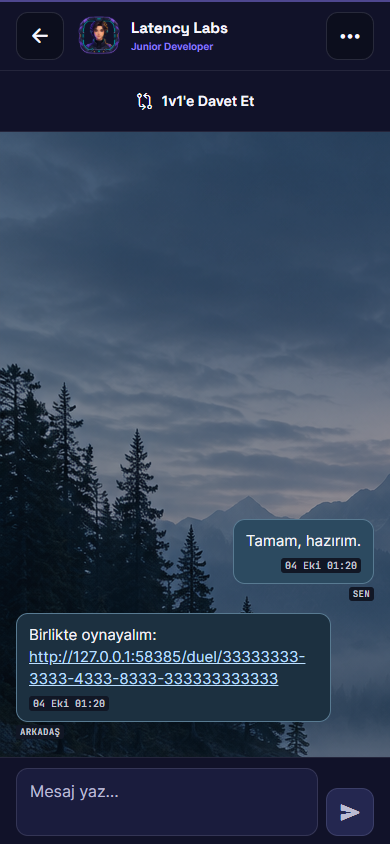
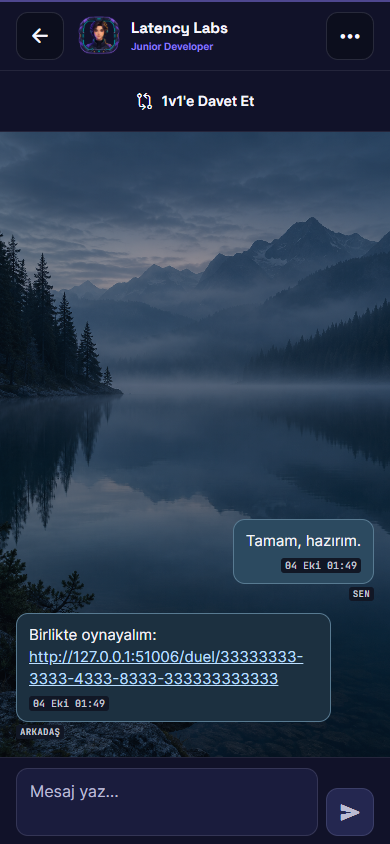
chat fixed.

diff --git a/app/duel/[matchId].tsx b/app/duel/[matchId].tsx
@@ -4,6 +4,7 @@ import { router, useLocalSearchParams } from 'expo-router';
 import React, { useCallback, useEffect, useRef, useState } from 'react';
 import { ActivityIndicator, Alert, Platform, Pressable, Share, Text, View, type TextStyle } from 'react-native';
 import { duelCategoryLabel, DuelButton, DuelNotice, DuelShell, useDuelStyles } from '../../src/components/duels/DuelUI';
+import DuelRoundFeedback from '../../src/components/duels/DuelRoundFeedback';
 import { DuelLobby } from '../../src/components/duels/DuelLobby';
 import { useDuelResource } from '../../src/hooks/useDuelResource';
 import { acceptDuel, cancelDuel, createDuel, declineDuel, forfeitDuel, getDuel, getDuelHeadToHead, submitDuelAnswer } from '../../src/services/duels';
@@ -140,7 +141,7 @@ export default function DuelMatchScreen() {
     if (next) router.replace({ pathname: '/duel/[matchId]', params: { matchId: next.id } });
   };
 
-  return <DuelShell title={match?.status === 'active' && elapsed >= 0 ? opponentName : '1v1 Kapışma'} maxWidth={900} onBack={() => router.replace('/duels')}>
+  return <DuelShell title={match?.status === 'active' && elapsed >= 0 ? opponentName : '1v1 Kapışma'} maxWidth={900} scrollResetKey={`${matchId}:${match?.phase}:${match?.currentRoundIndex}`} onBack={() => router.replace('/duels')}>
     {resource.loading && !match && <View style={styles.surface}><ActivityIndicator color={tokens.colors.primary} /><Text style={styles.body}>Düello yükleniyor…</Text></View>}
     {resource.error && <DuelNotice message={resource.error} onRetry={() => void resource.refresh()} />}
     {match && (match.status === 'pending' || (match.status === 'active' && elapsed < 0)) && <DuelLobby
@@ -160,17 +161,16 @@ export default function DuelMatchScreen() {
       </>}
     </DuelLobby>}
     {match?.status === 'active' && <>
-      {elapsed < 0 ? null : revealing && match.roundResult ? <View style={styles.section} accessibilityLiveRegion="polite">
-        <Text style={styles.eyebrow}>SORU {match.roundResult.roundIndex + 1} / 7 · SONUÇ</Text>
-        <Text style={styles.score}>+{match.roundResult.myPoints} – +{match.roundResult.opponentPoints}</Text>
-        <RoundFeedback round={match.roundResult} />
-        <Text style={styles.strong}>{revealSeconds > 0 ? `${match.roundResult.roundIndex === 6 ? 'Maç sonucu' : 'Sıradaki soru'} ${revealSeconds} saniye sonra` : 'Sunucuyla eşitleniyor…'}</Text>
-      </View> : currentQuestionIsLive && question ? <View style={styles.section}>
+      {elapsed < 0 ? null : revealing && match.roundResult ? <DuelRoundFeedback round={match.roundResult} seconds={revealSeconds} /> : currentQuestionIsLive && question ? <View style={styles.section}>
         <View style={styles.row}>
           <View style={styles.flex}><Text style={styles.eyebrow}>SORU {question.roundIndex + 1} / 7</Text><Text style={styles.body}>{duelCategoryLabel(question.category)}</Text></View>
           <Text accessibilityLabel={`${secondsLeft} saniye kaldı`} style={[styles.timer, secondsLeft <= 5 && styles.warning]}>{secondsLeft}s</Text>
         </View>
         <View style={styles.progressTrack}><View style={[styles.progress, { width: `${Math.min(100, Math.max(0, secondsLeft / 20 * 100))}%` }]} /></View>
+        {match.scoringVersion === 2 && <View accessibilityLiveRegion="polite" style={{ flexDirection: 'row', alignItems: 'center', gap: 8, padding: 12, borderRadius: tokens.radius.sm, backgroundColor: match.opponentAnswered ? tokens.colors.successSoft : tokens.colors.secondarySurface }}>
+          <Ionicons accessible={false} name={match.opponentAnswered ? 'checkmark-circle' : 'time-outline'} size={22} color={match.opponentAnswered ? tokens.colors.success : tokens.colors.textSecondary} />
+          <Text style={[styles.strong, match.opponentAnswered && styles.success]}>{match.opponentAnswered ? 'Rakip cevapladı' : 'Rakip düşünüyor'}</Text>
+        </View>}
         <View style={styles.surface}><Text accessibilityRole="header" style={styles.question}>{question.prompt}</Text></View>
         {question.options.map((option, index) => {
           const isSelected = (submittedOption ?? selectedOption) === index;
@@ -178,7 +178,7 @@ export default function DuelMatchScreen() {
             <Text style={styles.answerLetter}>{String.fromCharCode(65 + index)}</Text><Text style={[styles.body, styles.flex]}>{option}</Text>{isSelected && <Ionicons name="checkmark" size={20} color={tokens.colors.primary} />}
           </Pressable>;
         })}
-        {match.opponentAnswered && <View style={styles.row} accessibilityLiveRegion="polite"><Ionicons name="checkmark-circle" size={20} color={tokens.colors.success} /><Text style={styles.body}>Rakip cevapladı</Text></View>}
+
         {submittedOption != null ? <DuelNotice message={match.scoringVersion === 2 ? 'Yanıtın kilitlendi. İkiniz de yanıtlayınca veya süre dolunca sonuç açılır.' : 'Yanıtın kaydedildi. Süre bitince sıradaki soru otomatik açılır.'} /> : <DuelButton label="Yanıtı Kilitle" disabled={selectedOption == null || !resource.active} busy={resource.busy} onPress={() => { if (selectedOption != null) void resource.runAction(() => submitDuelAnswer(matchId, question.roundIndex, selectedOption)); }} />}
       </View> : <View style={styles.surface}><ActivityIndicator color={tokens.colors.primary} /><Text style={styles.body}>{expectedRound >= 7 ? 'Maç sonucu hazırlanıyor…' : 'Sıradaki soru sunucuyla eşitleniyor…'}</Text></View>}
       {elapsed >= 0 && <Text style={styles.body}>Bağlantı kesilse veya bu ekrandan ayrılsan da süre devam eder. Yanlış ve yanıtsız sorular 0 puan alır. {match.scoringVersion === 2 ? 'Her soru sonucu birlikte açılır; sonraki soru 3 saniye sonra başlar.' : 'Doğru yanıtlar maç sonunda açılır.'}</Text>}
@@ -205,20 +205,6 @@ export default function DuelMatchScreen() {
       <DuelButton label="Arkadaş 1v1’e Dön" onPress={() => router.replace('/duels')} />
     </View>}
   </DuelShell>;
-}
-
-function RoundFeedback({ round }: { round: DuelRoundResult }) {
-  const { styles } = useDuelStyles();
-  const describe = (option: number | null) => option === null ? 'Yanıtsız' : `${String.fromCharCode(65 + option)} · ${option === round.correctIndex ? 'Doğru' : 'Yanlış'}`;
-  return <View style={styles.surface}>
-    <Text style={styles.strong}>{round.prompt}</Text>
-    <Text style={styles.body}>Sen: {describe(round.myOptionIndex)} · +{round.myPoints} puan</Text>
-    <Text style={styles.body}>Rakip: {describe(round.opponentOptionIndex)} · +{round.opponentPoints} puan</Text>
-    <Text style={styles.body}>Sen: hız +{round.mySpeedBonus} · ilk doğru +{round.myFirstBonus}</Text>
-    <Text style={styles.body}>Rakip: hız +{round.opponentSpeedBonus} · ilk doğru +{round.opponentFirstBonus}</Text>
-    <Text style={[styles.body, styles.success]}>Doğru yanıt: {String.fromCharCode(65 + round.correctIndex)}. {round.options[round.correctIndex]}</Text>
-    <Text style={styles.body}>{round.explanation}</Text>
-  </View>;
 }
 
 function RoundReview({ round }: { round: DuelRoundResult }) {

diff --git a/app/messages/[userId].tsx b/app/messages/[userId].tsx
@@ -283,7 +283,7 @@ export default function DirectConversationScreen() {
 
         {status === 'ready' ? <ChatDuelPanel opponentId={targetUserId} disabled={!context?.canSend} /> : null}
         <KeyboardAvoidingView style={styles.keyboardArea} behavior={Platform.OS === 'ios' ? 'padding' : undefined} keyboardVerticalOffset={8}>
-          <View style={styles.conversationCanvas}>
+          <View testID="conversation-canvas" style={styles.conversationCanvas}>
           <ChatWallpaper preset={chatTheme} palette={chatPalette} />
           {status === 'loading' ? (
             <View style={styles.state}><ActivityIndicator color={tokens.colors.secondary} /><Text style={styles.stateTitle}>Konuşma yükleniyor</Text></View>
@@ -467,7 +467,7 @@ function makeStyles(tokens: ReturnType<typeof getDashboardTokens>, chatPalette: 
     background: { flex: 1, backgroundColor: colors.canvas },
     topRule: { position: 'absolute', top: 0, left: 0, right: 0, height: 2, backgroundColor: colors.primary, opacity: 0.5 },
     safeArea: { flex: 1 },
-    header: { width: '100%', maxWidth: 820, alignSelf: 'center', minHeight: 64, flexDirection: 'row', alignItems: 'center', gap: 8, paddingHorizontal: tokens.layout.pageGutter, paddingTop: tokens.layout.pageTop, paddingBottom: 8, borderBottomWidth: StyleSheet.hairlineWidth, borderBottomColor: colors.dividerSubtle },
+    header: { width: '100%', maxWidth: Platform.OS === 'web' ? undefined : 820, alignSelf: 'center', minHeight: 64, flexDirection: 'row', alignItems: 'center', gap: 8, paddingHorizontal: tokens.layout.pageGutter, paddingTop: tokens.layout.pageTop, paddingBottom: 8, borderBottomWidth: StyleSheet.hairlineWidth, borderBottomColor: colors.dividerSubtle },
     headerButton: { width: 48, height: 48, flexShrink: 0, alignItems: 'center', justifyContent: 'center', borderRadius: radius.sm, backgroundColor: colors.secondarySurface, borderWidth: 1, borderColor: colors.borderSubtle },
     identity: { flex: 1, minWidth: 0, minHeight: 52, flexDirection: 'row', alignItems: 'center', gap: 10, paddingHorizontal: 5, borderRadius: radius.sm },
     avatarFallback: { width: 44, height: 44, flexShrink: 0, alignItems: 'center', justifyContent: 'center', borderRadius: radius.sm, backgroundColor: colors.surfaceSoft, borderWidth: 1, borderColor: colors.borderSubtle },
@@ -477,7 +477,7 @@ function makeStyles(tokens: ReturnType<typeof getDashboardTokens>, chatPalette: 
     menu: { position: 'absolute', zIndex: 20, top: tokens.layout.isCompact ? 72 : 84, right: tokens.layout.pageGutter, width: 220, padding: 6, borderRadius: radius.md, backgroundColor: colors.floatingSurfaceRaised, borderWidth: 1, borderColor: colors.borderStrong, ...shadow.raised },
     menuAction: { minHeight: 48, flexDirection: 'row', alignItems: 'center', gap: 9, paddingHorizontal: 11, borderRadius: radius.sm },
     menuText: { flex: 1, color: colors.text, fontFamily: fonts.bodySemiBold, fontSize: 13 },
-    keyboardArea: { flex: 1, width: '100%', maxWidth: 820, alignSelf: 'center' },
+    keyboardArea: { flex: 1, width: '100%', maxWidth: Platform.OS === 'web' ? undefined : 820, alignSelf: 'center' },
     conversationCanvas: { flex: 1, overflow: 'hidden', backgroundColor: chatPalette.canvas },
     messageList: { flexGrow: 1, justifyContent: 'flex-end', paddingHorizontal: tokens.layout.pageGutter, paddingTop: 14, paddingBottom: 18 },
     messageListEmpty: { justifyContent: 'center' },
@@ -487,7 +487,7 @@ function makeStyles(tokens: ReturnType<typeof getDashboardTokens>, chatPalette: 
     messageLane: { width: '100%' },
     messageLaneOwn: { alignItems: 'flex-end' },
     messageLaneOther: { alignItems: 'flex-start' },
-    messageSurface: { maxWidth: tokens.layout.isCompact ? '88%' : '74%', minWidth: 88, paddingHorizontal: 12, paddingVertical: 10, borderRadius: radius.sm, borderWidth: 1 },
+    messageSurface: { maxWidth: tokens.layout.isCompact ? '88%' : 680, minWidth: 88, paddingHorizontal: 12, paddingVertical: 10, borderRadius: radius.sm, borderWidth: 1 },
     messageOwn: { backgroundColor: chatPalette.own, borderColor: chatPalette.border },
     messageOther: { backgroundColor: chatPalette.other, borderColor: chatPalette.border },
     questionMessageSurface: { width: tokens.layout.isCompact ? '88%' : '74%', paddingHorizontal: 0, paddingVertical: 0, backgroundColor: 'transparent', borderWidth: 0 },

diff --git a/src/components/duels/DuelRoundFeedback.tsx b/src/components/duels/DuelRoundFeedback.tsx
@@ -1,0 +1,60 @@
+import { Ionicons } from '@expo/vector-icons';
+import React from 'react';
+import { StyleSheet, Text, View } from 'react-native';
+import type { DuelRoundResult } from '../../utils/duels';
+import { fonts } from '../../theme/typography';
+import { useDuelStyles } from './DuelUI';
+
+export default function DuelRoundFeedback({ round, seconds }: { round: DuelRoundResult; seconds: number }) {
+  const { styles, tokens } = useDuelStyles();
+  const c = tokens.colors;
+  const lead = round.myPoints === round.opponentPoints ? 'Bu soru berabere' : round.myPoints > round.opponentPoints ? 'Bu soruda sen daha çok puan aldın' : 'Bu soruda rakip daha çok puan aldı';
+  return <View style={styles.section}>
+    <View style={s.heading}>
+      <View style={styles.flex}>
+        <Text style={styles.eyebrow}>SORU {round.roundIndex + 1} / 7 · SONUÇ</Text>
+        <Text accessibilityRole="header" style={styles.sectionTitle}>{lead}</Text>
+      </View>
+      <View accessibilityLabel={seconds > 0 ? `${round.roundIndex === 6 ? 'Maç sonucu' : 'Sıradaki soru'} ${seconds} saniye sonra` : 'Sunucuyla eşitleniyor'} style={[s.countdown, { backgroundColor: c.actionSubSurface, borderColor: c.selectionBorder }]}>
+        <Text style={[s.count, { color: c.text }]}>{seconds > 0 ? seconds : '…'}</Text>
+        <Text style={[s.countLabel, { color: c.textSecondary }]}>{round.roundIndex === 6 ? 'SONUÇ' : 'SONRAKİ'}</Text>
+      </View>
+    </View>
+    <View style={s.players}>
+      {([
+        { label: 'Sen', option: round.myOptionIndex, points: round.myPoints, speed: round.mySpeedBonus, first: round.myFirstBonus },
+        { label: 'Rakip', option: round.opponentOptionIndex, points: round.opponentPoints, speed: round.opponentSpeedBonus, first: round.opponentFirstBonus },
+      ]).map((player) => {
+        const correct = player.option === round.correctIndex;
+        const color = player.option === null ? c.textSecondary : correct ? c.success : c.danger;
+        return <View key={player.label} style={[s.player, { backgroundColor: c.surface, borderColor: correct ? c.successBorder : c.border, borderRadius: tokens.radius.md }]}>
+          <Text style={styles.strong}>{player.label}</Text>
+          <View style={s.verdict}>
+            <Ionicons accessible={false} name={player.option === null ? 'time-outline' : correct ? 'checkmark-circle' : 'close-circle'} color={color} size={22} />
+            <Text style={[s.verdictText, { color }]}>{player.option === null ? 'Yanıtsız' : correct ? 'Doğru' : 'Yanlış'}</Text>
+          </View>
+          <Text style={[s.points, { color: c.text }]}>+{player.points}<Text style={styles.body}> puan</Text></Text>
+          <Text style={styles.body}>{player.option === null ? 'Yanıt verilmedi' : `${String.fromCharCode(65 + player.option)} şıkkı`}</Text>
+          <Text style={[s.bonus, { color: c.textSecondary }]}>Doğru +{correct ? 70 : 0}{'\n'}Hız +{player.speed} · İlk +{player.first}</Text>
+        </View>;
+      })}
+    </View>
+    <View style={styles.surface}>
+      <Text style={styles.strong}>Doğru yanıt: {String.fromCharCode(65 + round.correctIndex)}. {round.options[round.correctIndex]}</Text>
+      <Text style={styles.body}>{round.explanation}</Text>
+    </View>
+  </View>;
+}
+
+const s = StyleSheet.create({
+  heading: { flexDirection: 'row', alignItems: 'center', gap: 16 },
+  countdown: { minWidth: 76, alignItems: 'center', paddingVertical: 8, paddingHorizontal: 10, borderRadius: 16, borderWidth: 1 },
+  count: { fontFamily: fonts.monoBold, fontSize: 40, lineHeight: 48 },
+  countLabel: { fontFamily: fonts.bodySemiBold, fontSize: 10, lineHeight: 16 },
+  players: { flexDirection: 'row', gap: 12 },
+  player: { flex: 1, minWidth: 0, borderWidth: 1, padding: 14, gap: 8 },
+  verdict: { flexDirection: 'row', alignItems: 'center', flexWrap: 'wrap', gap: 6 },
+  verdictText: { fontFamily: fonts.bodySemiBold, fontSize: 15, lineHeight: 22 },
+  points: { fontFamily: fonts.monoBold, fontSize: 27, lineHeight: 36 },
+  bonus: { fontFamily: fonts.body, fontSize: 12, lineHeight: 20 },
+});

diff --git a/src/components/duels/DuelUI.tsx b/src/components/duels/DuelUI.tsx
@@ -24,16 +24,19 @@ export function useDuelStyles() {
   return { tokens, styles, wide: width >= 900 };
 }
 
-export function DuelShell({ title, eyebrow = 'ARKADAŞ 1V1', children, onBack, maxWidth = 1120, actions, subtitle }: {
+export function DuelShell({ title, eyebrow = 'ARKADAŞ 1V1', children, onBack, maxWidth = 1120, actions, subtitle, scrollResetKey }: {
   title: string; eyebrow?: string; children: React.ReactNode; onBack?: () => void; maxWidth?: number;
   actions?: React.ReactNode; subtitle?: string;
+  scrollResetKey?: string;
 }) {
   const { tokens, styles } = useDuelStyles();
   const [focused, setFocused] = useState(false);
   const [hovered, setHovered] = useState(false);
+  const scroll = useRef<ScrollView>(null);
+  useEffect(() => { if (scrollResetKey) scroll.current?.scrollTo({ y: 0, animated: false }); }, [scrollResetKey]);
   return <View style={styles.background}>
     <SafeAreaView style={styles.safe} edges={['top', 'bottom']}>
-      <ScrollView contentContainerStyle={[styles.page, { maxWidth }]} showsVerticalScrollIndicator={false}>
+      <ScrollView ref={scroll} contentContainerStyle={[styles.page, { maxWidth }]} showsVerticalScrollIndicator={false}>
         <View style={styles.header}>
           <Pressable accessibilityRole="button" accessibilityLabel="Geri dön" onFocus={() => setFocused(true)} onBlur={() => setFocused(false)} onHoverIn={() => setHovered(true)} onHoverOut={() => setHovered(false)} onPress={onBack ?? (() => router.canGoBack() ? router.back() : router.replace('/(tabs)/play'))} style={({ pressed }) => [styles.back, hovered && styles.controlHover, focused && styles.controlFocus, pressed && styles.pressed]}>
             <Ionicons name="arrow-back" size={20} color={tokens.colors.text} accessible={false} />

diff --git a/src/components/messaging/ChatDuelPanel.tsx b/src/components/messaging/ChatDuelPanel.tsx
@@ -1,7 +1,7 @@
 import { Ionicons } from '@expo/vector-icons';
 import { router, useFocusEffect } from 'expo-router';
 import React, { useCallback, useEffect, useState } from 'react';
-import { StyleSheet, Text, View } from 'react-native';
+import { Platform, StyleSheet, Text, View } from 'react-native';
 import { acceptDuel, cancelDuel, createDuel, declineDuel, type DuelSummary } from '../../services/duels';
 import { useAuth } from '../../state/AuthContext';
 import { useDuelInvitations } from '../../state/DuelInvitationsContext';
@@ -71,7 +71,7 @@ export default function ChatDuelPanel({ opponentId, disabled = false }: { oppone
 }
 
 const s = StyleSheet.create({
-  panel: { width: '100%', maxWidth: 820, alignSelf: 'center', paddingVertical: 6, borderBottomWidth: StyleSheet.hairlineWidth },
+  panel: { width: '100%', maxWidth: Platform.OS === 'web' ? undefined : 820, alignSelf: 'center', paddingVertical: 6, borderBottomWidth: StyleSheet.hairlineWidth },
   card: { gap: 10 }, heading: { flexDirection: 'row', alignItems: 'center', gap: 10 }, copy: { flex: 1, minWidth: 0 },
   title: { fontFamily: fonts.bodySemiBold, fontSize: 14, lineHeight: 20 }, subtitle: { fontFamily: fonts.body, fontSize: 12, lineHeight: 18 },
   actions: { flexDirection: 'row', flexWrap: 'wrap', gap: 8 }, action: { flexGrow: 1, flexBasis: 110, minHeight: 48 },

diff --git a/tests/direct-messaging-invariants.ts b/tests/direct-messaging-invariants.ts
@@ -313,7 +313,7 @@ assert.match(messagesScreen, /rowCopy: \{ flex: 1, minWidth: 0 \}/);
 assert.match(messagesScreen, /rowUnread: \{[^}]*borderLeftWidth: 3/, 'Unread row must have a distinct non-text cue');
 assert.match(messagesScreen, /rowFocused: \{[^}]*outlineWidth: 2/, 'List actions need a visible keyboard focus state');
 assert.match(messagesScreen, /Math\.min\(99, conversation\.unreadCount\)/, 'Row unread badge ceiling must remain unchanged');
-assert.match(conversationScreen, /messageSurface: \{ maxWidth: tokens\.layout\.isCompact \? '88%' : '74%'[\s\S]*messageBody: \{ minWidth: 0, flexShrink: 1/, 'Long messages must remain within responsive bubbles');
+assert.match(conversationScreen, /messageSurface: \{ maxWidth: tokens\.layout\.isCompact \? '88%' : 680[\s\S]*messageBody: \{ minWidth: 0, flexShrink: 1/, 'Long messages must remain readable within bounded bubbles on the full-width canvas');
 assert.match(conversationScreen, /wordBreak: 'break-word'/, 'Unbroken web message text must wrap');
 assert.match(conversationScreen, /questionMessageSurface: \{[^}]*borderWidth: 0/, 'Question card must avoid nested bubble borders');
 assert.match(questionCard, /minHeight: 44[\s\S]*focused && styles\.focused|focused && styles\.focused[\s\S]*minHeight: 44/, 'Question card action must be keyboard-visible and touchable');

diff --git a/src/components/messaging/ChatWallpaper.tsx b/src/components/messaging/ChatWallpaper.tsx
@@ -13,7 +13,7 @@ export default function ChatWallpaper({ preset, palette }: { preset: ChatThemePr
   return (
     <View pointerEvents="none" accessible={false} accessibilityElementsHidden importantForAccessibility="no-hide-descendants" style={[StyleSheet.absoluteFill, { backgroundColor: palette.canvas }]}>
       {preset.image ? <>
-        <Image source={IMAGES[preset.image]} resizeMode="cover" style={StyleSheet.absoluteFill} />
+        <Image testID="chat-wallpaper-image" source={IMAGES[preset.image]} resizeMode="cover" style={[StyleSheet.absoluteFill, { width: '100%', height: '100%' }]} />
         <View style={[StyleSheet.absoluteFill, { backgroundColor: 'rgba(10, 15, 26, 0.38)' }]} />
       </> : <LinearGradient colors={palette.gradient} start={{ x: 0, y: 0 }} end={{ x: 1, y: 1 }} style={StyleSheet.absoluteFill} />}
     </View>

diff --git a/docs/friend-duels.md b/docs/friend-duels.md
@@ -9,6 +9,7 @@
 - Oyuncu seçeneği işaretleyip **Yanıtı Kilitle** ile gönderir. İlk kaydedilen cevap değiştirilemez. Aynı isteğin tekrarı kayıt veya süreyi değiştirmez.
 - Doğru yanıt 70 puan + hız bonusu `floor((20000 - response_ms) / 1000)` (0–20) + ilk doğru yanıt bonusu 10 puan kazandırır. Yanlış ve yanıtsız cevap 0 puandır. Soru başına en fazla 100, maç başına 700 puan; eşit toplam puanda beraberlik olur. Sunucunun cevabı aldığı an kullanıldığı için ağ gecikmesi süreye dahildir. İki doğru yanıtın sunucu zamanları tam eşitse ikisi de ilk doğru bonusunu alır.
 - İki yanıt kilitlendiğinde veya 20 saniye dolduğunda doğruluk, seçenekler ve puan dökümü birlikte açılır. Rakip daha önce yanıtladıysa yalnızca onay işareti gösterilir. Sonuçtan 3 saniye sonra sonraki soru başlar; son sorudan sonra maç sonucu açılır. Soru sırasında toplam skor yalnızca önceki çözülmüş soruların puanını içerir.
+- Soru sonucunda Sen/Rakip alanları doğru/yanlış simgelerini, puanı ve bonusları ayrı gösterir; başlık o soruda daha çok puan alanı belirtir. Büyük rakamlı geri sayım sonuçla birlikte görünür. Yeni soru ve sonuç aşamasında ekran yukarı kaydırılır. Bu akış için aşağıdaki üçüncü migration uygulanmalı ve yeni bir maç açılmalıdır; migration öncesinde başlamış maçlar eski kurallarıyla biter.
 - Ekrandan çıkmak, uygulamayı arka plana almak veya bağlantıyı kesmek saati durdurmaz. Yeniden açınca sunucu durumuyla eşitlenir. **Maçtan Çekil** onaylandığında rakip hükmen kazanır.
 - Sonuç ekranında soru incelemesi, iki kişi arasındaki galibiyet/mağlubiyet/beraberlik toplamı ve rövanş bulunur.
 - Coin, şirket bütçesi, Kariyer XP, İtibar, Uptime, kategori ilerlemesi, başarı veya genel sıralama ödülü verilmez. İptal, ret ve süresi dolan davetler ikili istatistiğe eklenmez.

diff --git a/docs/chat-experience.md b/docs/chat-experience.md
@@ -2,6 +2,8 @@
 
 Konuşma seçenekleri → **Sohbet Teması** üzerinden Varsayılan, Grafit, Alacakaranlık, Adaçayı, Sisli Göl veya Gözlemevi seçilir. Önizleme, arka planla birlikte iki mesaj balonunu gösterir. Sisli Göl fotoğrafı ve Gözlemevi illüstrasyonu uygulamada paketlenir; uzak görsel servisi gerekmez. Tema yalnızca seçen kişinin bu cihazdaki görünümünü etkiler. Tercihler hesap ve karşı kullanıcı kimliğiyle ayrı saklanır; Varsayılan seçimi kaydı kaldırır.
 
+Web sohbeti başlık, davet alanı, arka plan ve yazma alanıyla ekranın tamamını kullanır. Masaüstünde mesaj balonları okunabilirlik için en fazla 680 px kalır; mobilde mevcut yüzde sınırı korunur. Arka plan görseli doğal çözünürlüğünden daha geniş ekranlarda da tüm sohbet alanını kaplar. Tarayıcı kontrolü 1280 ve 1920 px tam genişliği ve görselin alanı kaplamasını ölçer.
+
 Arkadaş sohbetindeki **1v1'e Davet Et** mevcut yetkilendirilmiş düello RPC'siyle davet oluşturur ve göndereni lobiye alır. Alıcı, aynı sohbetten **Kabul Et / Reddet** ile yanıtlayabilir. Diğer uygun ekranlarda kapatılabilir davet bildirimi görünür. Bildirimi kapatmak daveti reddetmez; davet 1v1 merkezinde bulunabilir. Ön planda beş saniyede bir ortak davet listesi yenilenir; açık maç ekranında bu ek sorgulama durur. İşletim sistemi push bildirimi eklenmemiştir.
 
 Mesajlardaki HTTP/HTTPS bağlantıları tıklanabilir; uygulamanın kendi `/duel/<uuid>` ve `shipit://duel/<uuid>` bağlantıları maç ekranına gider. Yalnızca davet linkinden oluşan mesaj, uygun davet eylemlerini gösterir. Diğer alan adlarının benzer yolları harici bağlantı olarak kalır. Bağlantıyı bilmek maç katılım yetkisi vermez. Kabul, ret, iptal, engel ve davet süresi sunucuda denetlenir.
